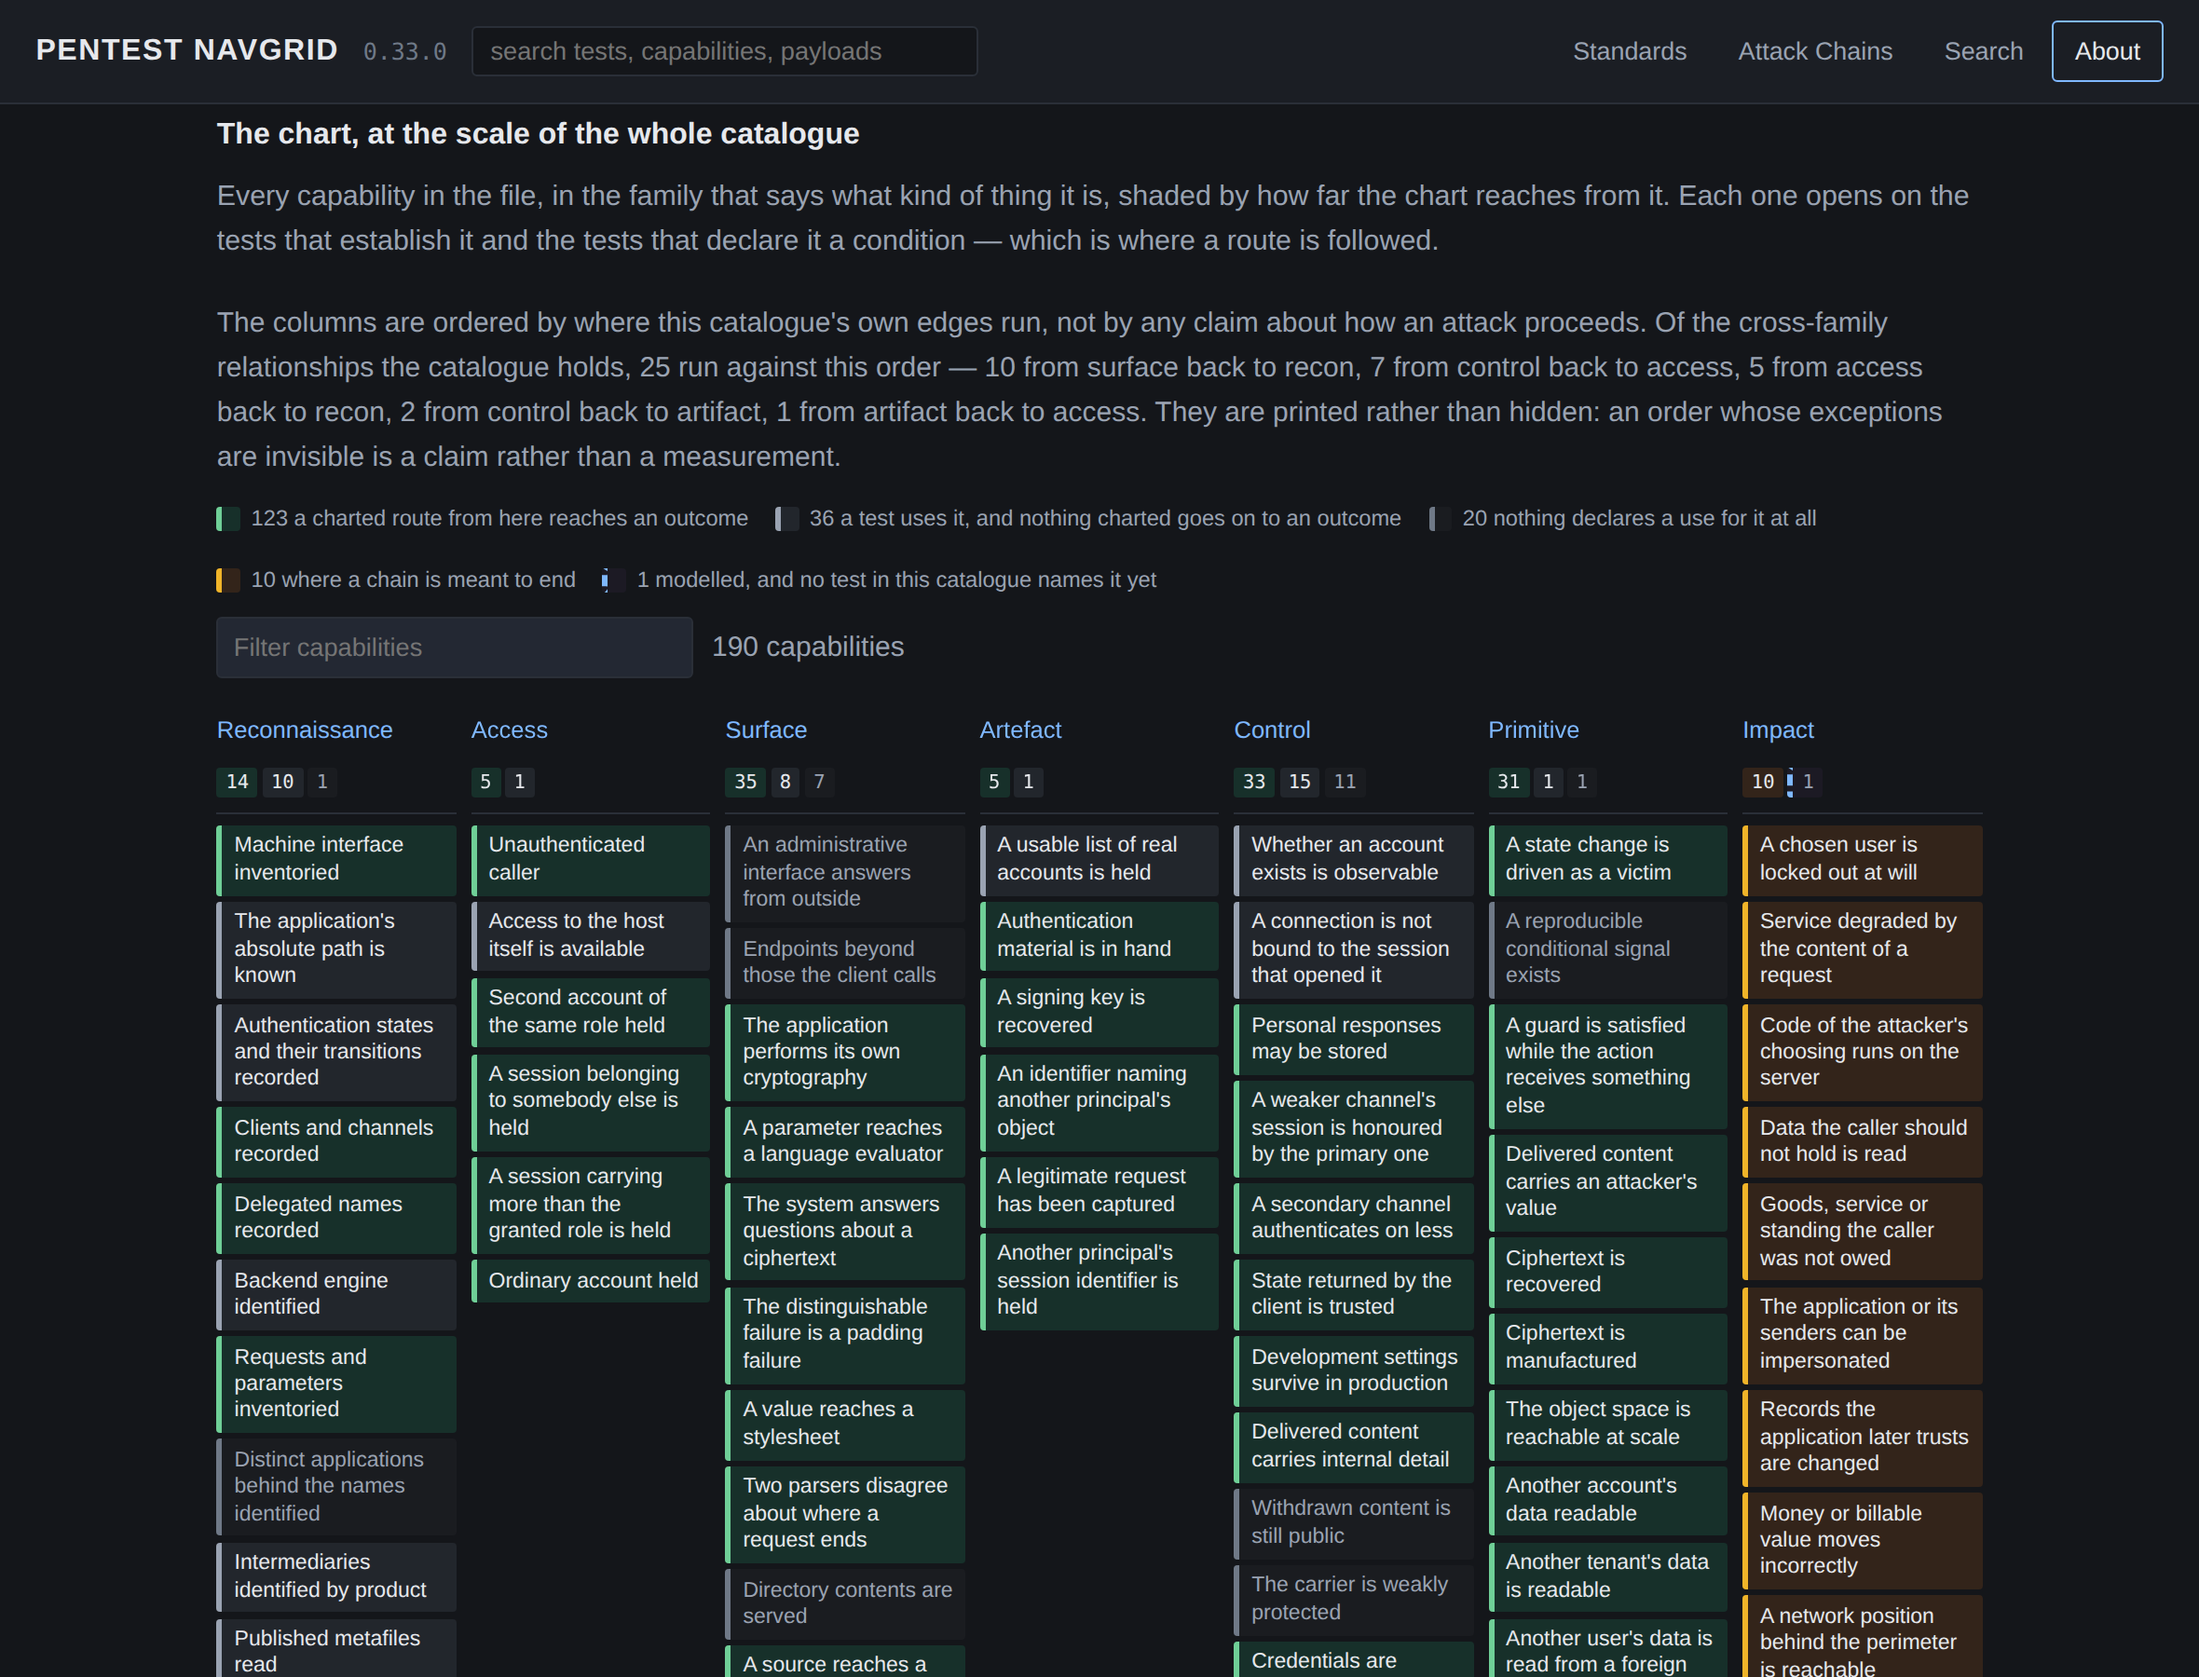
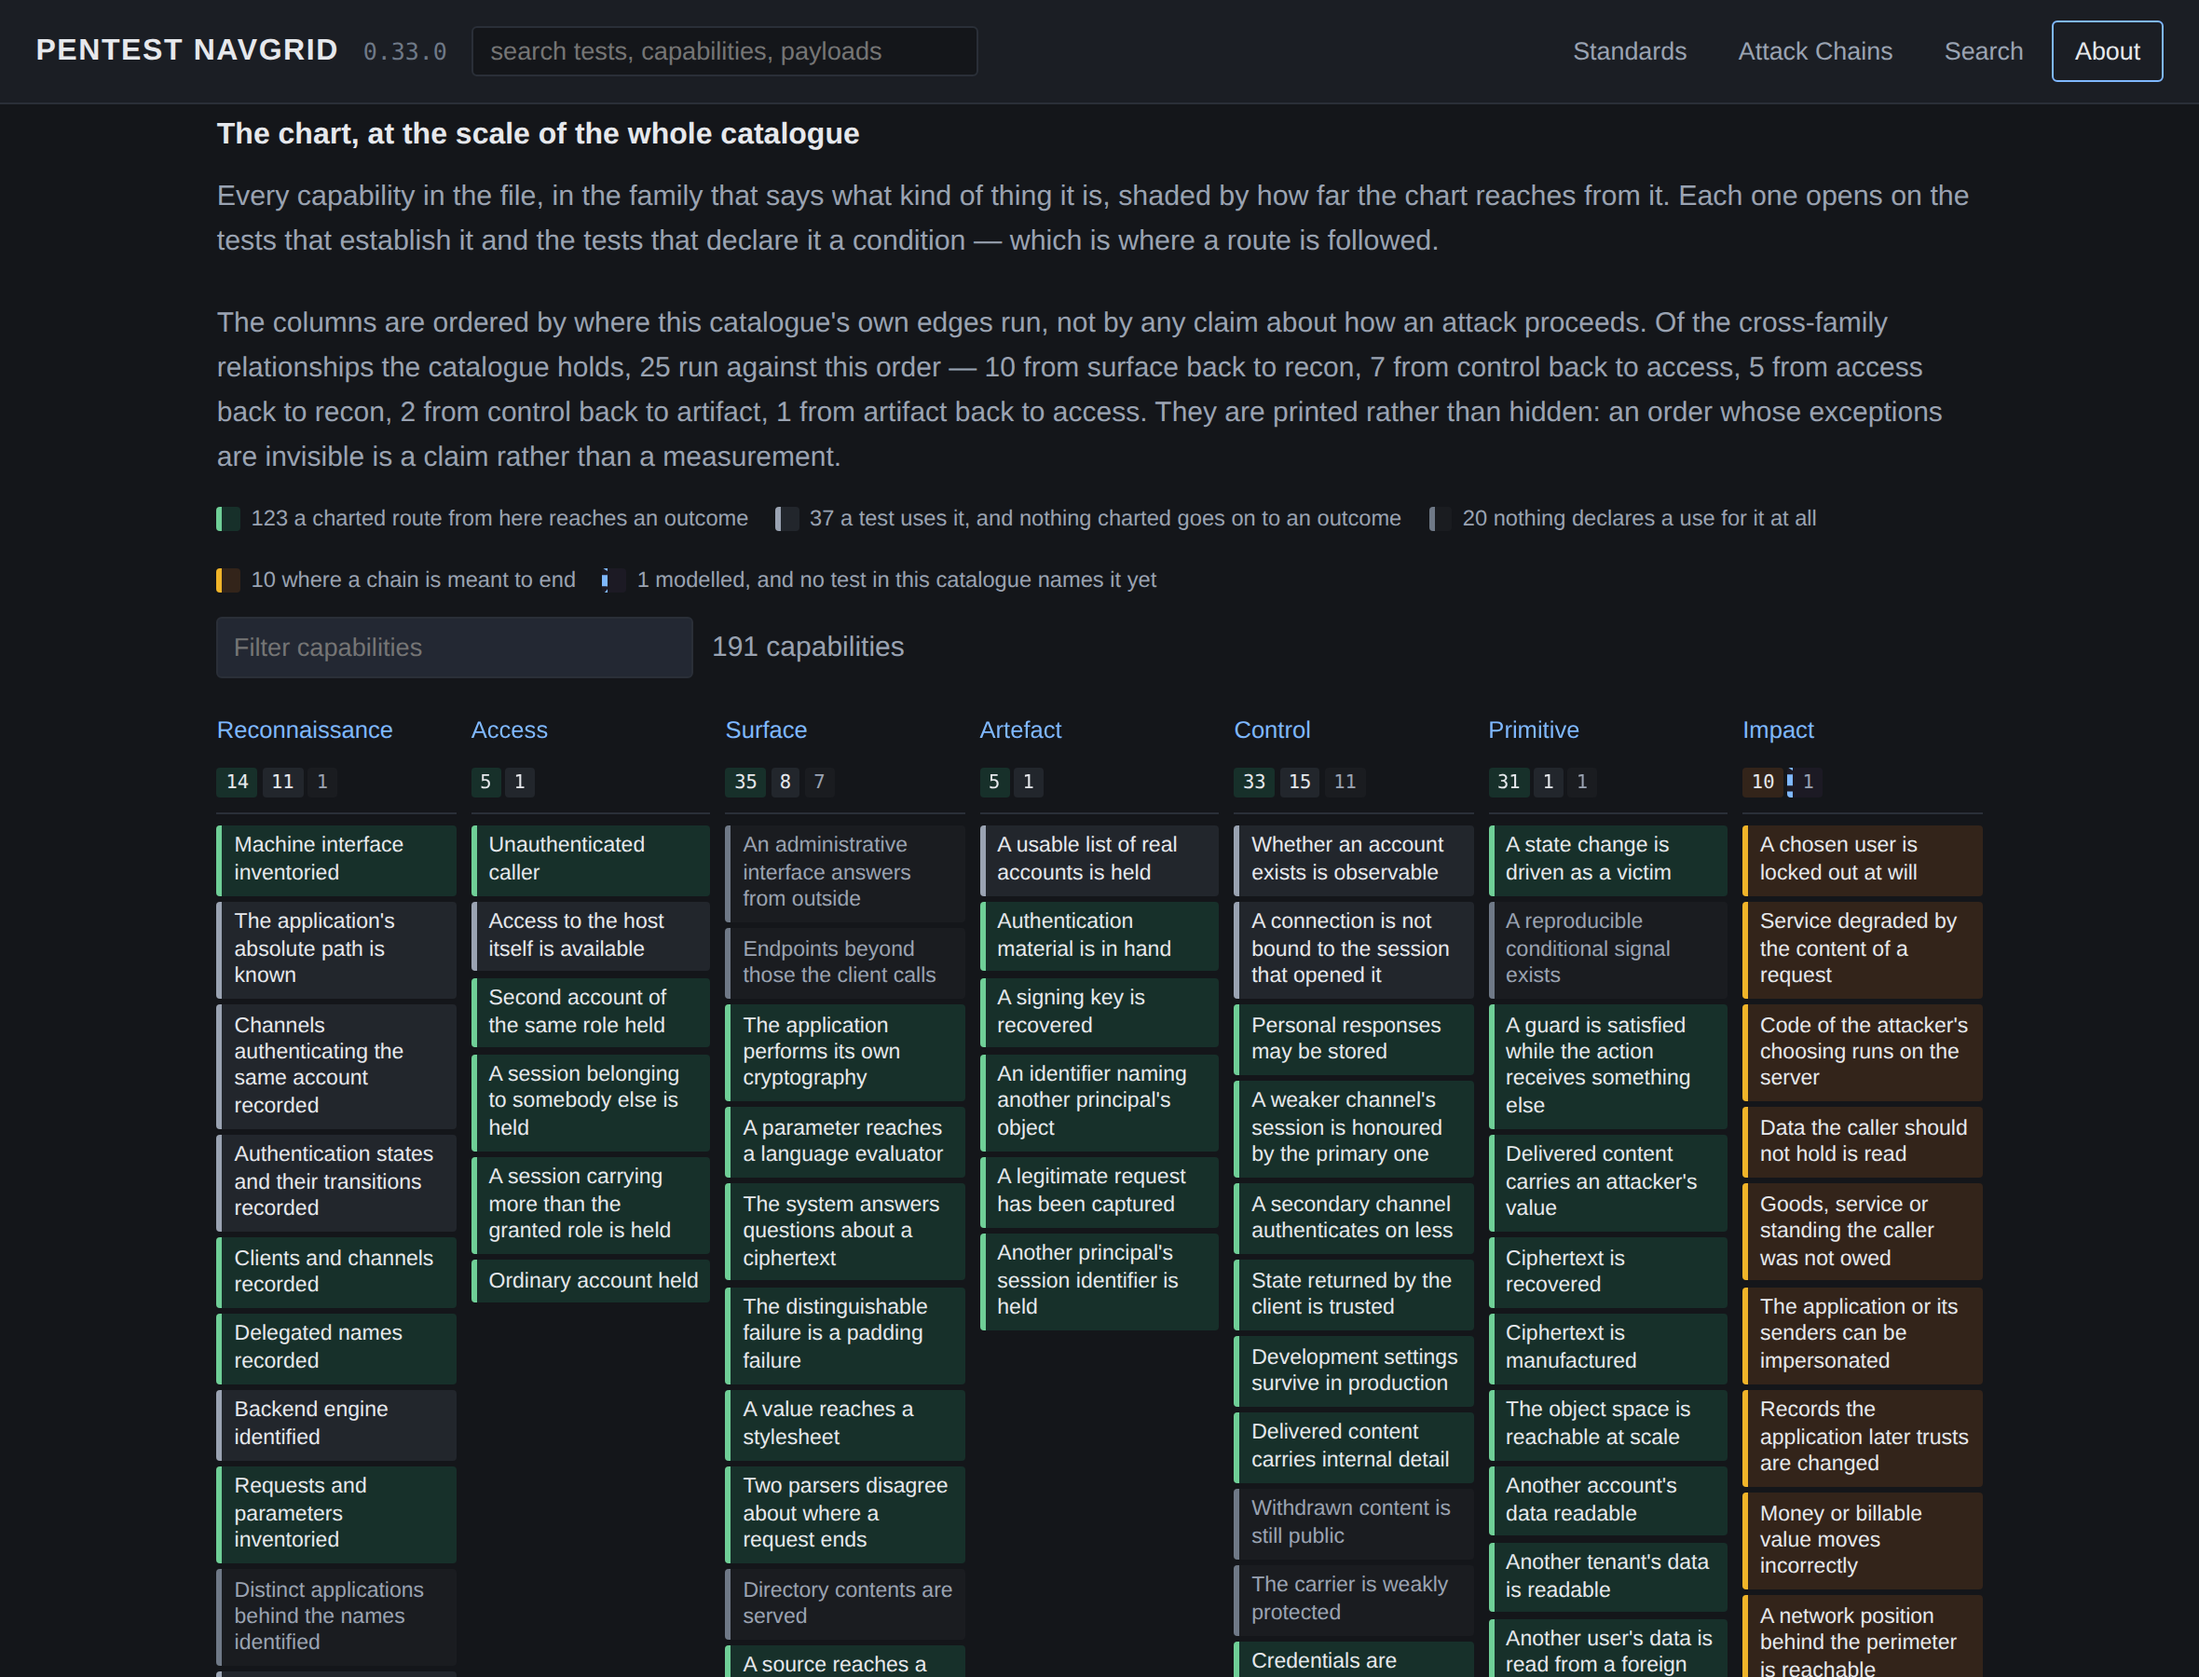
content(aut): write PTN-AUT-08 to depth
Alternative authentication channels, four units, outline to authored.

Its map unit is the third in this domain that established nothing.
recon.authchannels.mapped closes it, at topic tier, on the same reasoning as the
two before it: until the set of channels is written down, the weaker one is the
one nobody thought to look at.

The probe unit is where the domain's one social boundary had to be written. A
support-operated path authenticates on what a person can verify over a
telephone, which is by construction less than a credential -- so it belongs in
the inventory and is the one channel the unit does not exercise: doing so means
asking a person to authenticate somebody, which is social engineering rather
than a request, and it is recorded from what the process documents unless the
client has arranged otherwise.

Its recurring false positive is a channel that appears to demand less because a
second factor was satisfied moments earlier and is remembered. Every channel is
exercised from a client holding nothing, or the comparison measures memory
rather than requirements.

The write unit is the first in this batch that changes something rather than
reading it, and the choice of action is the safety control: the smallest
guarded action whose effect is observable and reversible on an owned account,
reversed afterwards. Where the only guarded actions are irreversible, the
bypass is already established by the unit above and this one is recorded as not
[…]

Changed region(s): [[0.0928, 0.5911, 0.2165, 1.0]]

diff --git a/README.md b/README.md
@@ -9,7 +9,7 @@ Units**, and derives the attack-chain continuations each success may open.
 
 > **Pentest NavGrid 0.33.0 is an early public alpha.** The WSTG decomposition is broad —
 > every resolvable identifier is claimed, and 393 Test Units exist. The depth
-> behind them is not: 64 units are written to full procedural depth and 40 are
+> behind them is not: 68 units are written to full procedural depth and 40 are
 > sketched, and what a defeated control permits is largely unwritten. [What that
 > means in numbers](#what-exists-today-and-what-does-not) is below, not buried at
 > the end.
@@ -355,9 +355,9 @@ stale in this file without the suite failing.
 | Claimed by a Pentest NavGrid topic | 108 of 108 resolvable |
 | Topics | 106, across 14 domains |
 | Test Units | 393 |
-| Written to full procedural depth | **64** |
+| Written to full procedural depth | **68** |
 | Sketched | 40 |
-| Outline only | 289 |
+| Outline only | 285 |
 
 Three chains are now written end to end rather than one: SQL injection under
 `WSTG-INPV-05`, cross-site scripting under `WSTG-INPV-01`, `WSTG-INPV-02` and
@@ -366,18 +366,18 @@ the standard's own test case through its Test Units to a stated business outcome
 
 | Chain | |
 |---|---|
-| Capabilities | 190 |
-| Derived unit-to-unit edges | 779 |
+| Capabilities | 191 |
+| Derived unit-to-unit edges | 780 |
 | — of them escalations between capabilities | 420 |
-| — another technique for the same test | 127 |
+| — another technique for the same test | 128 |
 | — a general prerequisite, not a step | 232 |
-| Tests with a potential continuation | 316 |
+| Tests with a potential continuation | 317 |
 | Tests that establish an impact | 14 |
 | Tests that stop short | 26 |
-| Tests declaring no capability | 37 |
-| Capabilities used by no test, impacts excluded | 20 of 190 |
-| Capabilities no test reaches at all | 1 of 190 |
-| Capabilities with a charted route to an impact | 123 of 179 |
+| Tests declaring no capability | 36 |
+| Capabilities used by no test, impacts excluded | 20 of 191 |
+| Capabilities no test reaches at all | 1 of 191 |
+| Capabilities with a charted route to an impact | 123 of 180 |
 
 The four test counts partition the catalogue exactly, which is what stops any one
 of them from quietly coming to mean something else.
@@ -403,7 +403,7 @@ than claimed, and nothing is invented to fill the gap.
 
 **The controls are no longer the largest gap.** `primitive → impact` is
 written: 1 of 33 `primitive.*` capabilities is declared as a use by nothing --
-the blind oracle, deliberately -- and 123 of 179 capabilities have a charted
+the blind oracle, deliberately -- and 123 of 180 capabilities have a charted
 route to an impact.
 `control → impact` is most of the way there: 11 of 59 `control.*` facts are
 established by a test and consumed by nothing, down from 36.

diff --git a/docs/CHAINING.md b/docs/CHAINING.md
@@ -37,9 +37,9 @@ The edge means: *if A succeeds, B may become relevant.* It does not mean B is
 now possible. B may need three other things as well, and one of them may be
 something no test can supply.
 
-**Why not name the next test directly.** The derivation currently yields 779
+**Why not name the next test directly.** The derivation currently yields 780
 unit-to-unit edges across 393 units, and that is with the far half of the chain
-barely charted. Written down they would be 779 hand-maintained links, each
+barely charted. Written down they would be 780 hand-maintained links, each
 needing to be inserted into the `next` list of every unit that could precede it
 — so the cost of adding a unit grows with the size of the catalogue, and the
 edges nobody updated look exactly like edges that were checked and found not to
@@ -271,14 +271,14 @@ validator rejects anything requiring one, and it is shown as where a chain is
 reportable result where the chart simply does not go on. Folding impacts into
 that count would inflate it and would describe arriving as failing to arrive.
 
-It is no longer the common case. 20 of 190
+It is no longer the common case. 20 of 191
 capabilities are established by a test and used by none, including 1 of 33
 `primitive.*` and 11 of 59 `control.*`. The chain-tier ones among them are
 registered under `unconsumed` with the cause they belong to, so the count moves
-only when a gap is worked on. A third state is counted apart from both: 1 of 190
+only when a gap is worked on. A third state is counted apart from both: 1 of 191
 is named by no test at all, registered under `uncovered`, and is where the
-catalogue has not arrived rather than where the chart stops. Of 393 tests, 316 have a potential
-continuation, 14 establish an impact, 26 stop short, and 37 declare no
+catalogue has not arrived rather than where the chart stops. Of 393 tests, 317 have a potential
+continuation, 14 establish an impact, 26 stop short, and 36 declare no
 capability at all — a partition, and the four sum to the catalogue. Phase 5
 charted reconnaissance through to primitives and stopped there; primitive to
 impact is largely unwritten. `pentest-navgrid chain` reports the split and the artefact

diff --git a/docs/ROADMAP.md b/docs/ROADMAP.md
@@ -105,9 +105,9 @@ work read as phase 2's:
 | **WSTG identifiers mapped to a domain** | **109 of 109** |
 | **WSTG identifiers covered by a topic** | **108 of 108** |
 | Topics | 106 |
-| Units — outlined | 289 |
+| Units — outlined | 285 |
 | Units — sketched | 40 |
-| Units — authored | 64 |
+| Units — authored | 68 |
 | Units — charted | 393 |
 
 *Mapped* means the ordered procedure resolved the identifier, which phase 0
@@ -668,6 +668,26 @@ named `PTN-AUT-07-BINDING` as its outline, and failed the day that unit was
 written to depth rather than the day the heading broke -- which is verbatim the
 comment its sibling two tests below carries about the same mistake. It now takes
 the first outline the catalogue holds, as that sibling does.
+
+`PTN-AUT-08`, alternative authentication channels, is the eighth, and its map
+unit is the third in the domain that established nothing --
+`recon.authchannels.mapped` closes it, at topic tier, on the same reasoning as
+the two before it.
+
+Its probe unit is where the domain's one social boundary had to be written down.
+A support-operated path authenticates on what a person can verify over a
+telephone, which is by construction less than a credential -- so it belongs in
+the inventory and is the one channel the unit does not exercise: doing so means
+asking a person to authenticate somebody, which is social engineering rather
+than a request. It is recorded from what the process documents unless the client
+has arranged otherwise.
+
+Its write unit is the first in this batch that changes something rather than
+reading it, and the choice of action is the safety control: the smallest guarded
+action whose effect is observable and reversible on an owned account, reversed
+afterwards. Where the only guarded actions are irreversible, the bypass is
+already established by the unit above it and this one is recorded as not
+performed rather than performed carefully.
 
 Every topic now carries units, which was phase 3's job. The number to watch from
 here is charted units — those carrying `requires` and `yields` — which is phase
